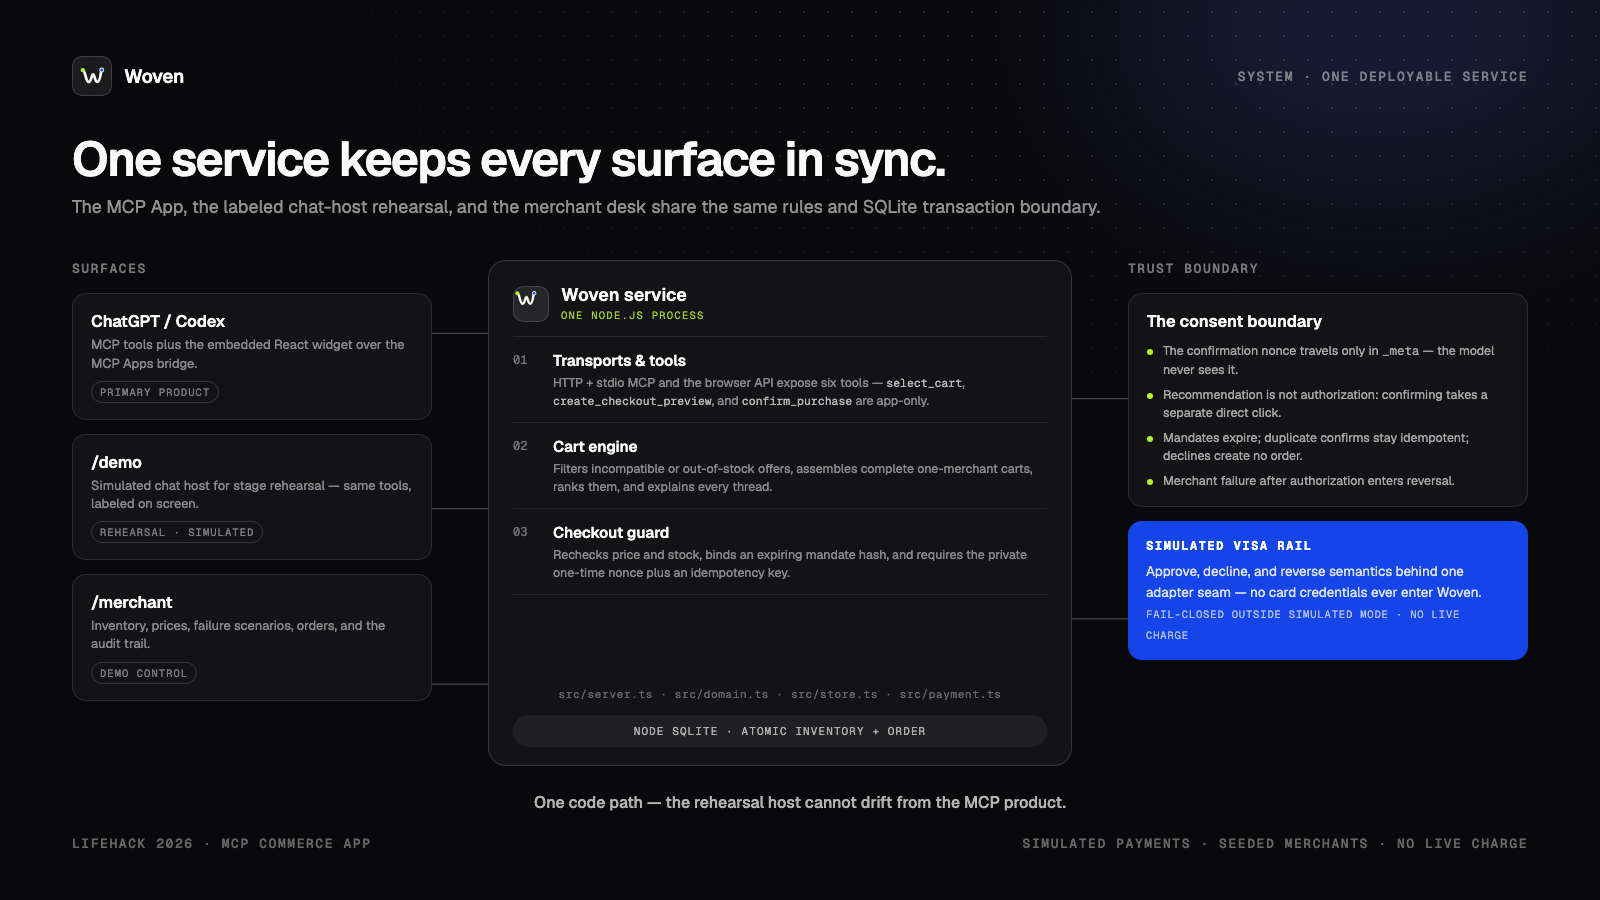
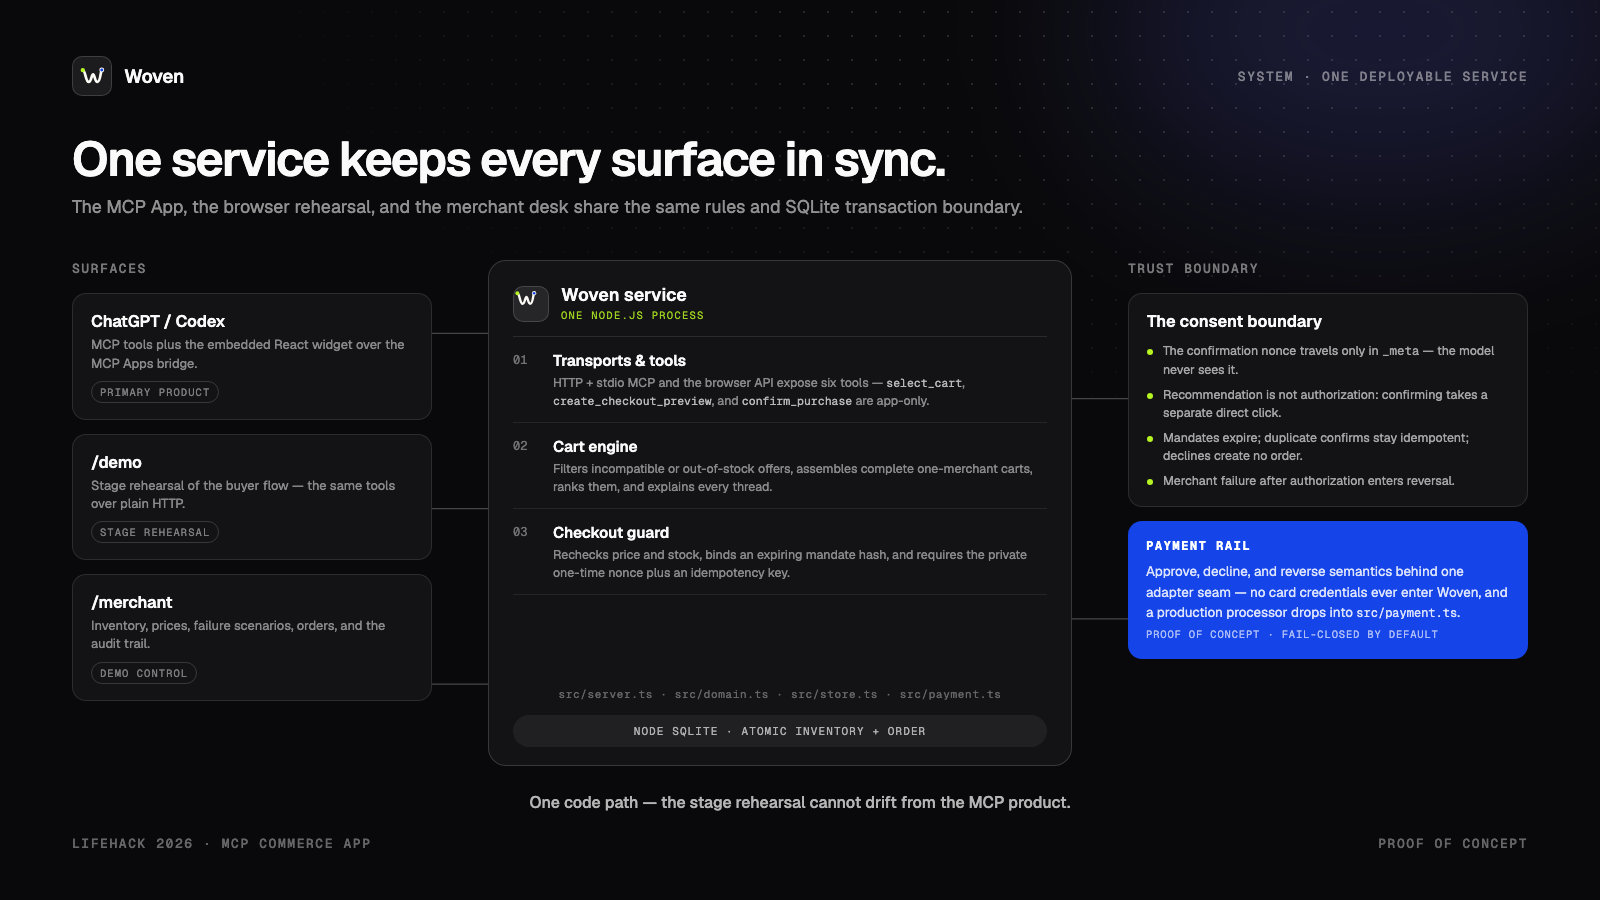
docs(style): reframe explainer assets as proof of concept
Drop the simulated/no-live-charge stamps from the two product-style
explainers per the user's direction and label both as proof of concept.
The payment-rail card stays free of live-integration claims, and the
/demo card uses transport-neutral stage-rehearsal wording.

diff --git a/docs/assets/devpost/src/woven-system-architecture.html b/docs/assets/devpost/src/woven-system-architecture.html
@@ -111,7 +111,7 @@
 
   <div class="title">
     <h1>One service keeps every surface in sync.</h1>
-    <p>The MCP App, the labeled chat-host rehearsal, and the merchant desk share the same rules and SQLite transaction boundary.</p>
+    <p>The MCP App, the browser rehearsal, and the merchant desk share the same rules and SQLite transaction boundary.</p>
   </div>
 
   <div class="diagram">
@@ -124,8 +124,8 @@
       </div>
       <div class="surface">
         <h3>/demo</h3>
-        <p>Simulated chat host for stage rehearsal — same tools, labeled on screen.</p>
-        <span class="tag">Rehearsal · simulated</span>
+        <p>Stage rehearsal of the buyer flow — the same tools over plain HTTP.</p>
+        <span class="tag">Stage rehearsal</span>
       </div>
       <div class="surface">
         <h3>/merchant</h3>
@@ -193,18 +193,18 @@
         </ul>
       </div>
       <div class="visa">
-        <h3>Simulated Visa rail</h3>
-        <p>Approve, decline, and reverse semantics behind one adapter seam — no card credentials ever enter Woven.</p>
-        <span class="fine">Fail-closed outside simulated mode · no live charge</span>
+        <h3>Payment rail</h3>
+        <p>Approve, decline, and reverse semantics behind one adapter seam — no card credentials ever enter Woven, and a production processor drops into <code style="font-family:'Geist Mono Variable',monospace;font-size:12px">src/payment.ts</code>.</p>
+        <span class="fine">Proof of concept · fail-closed by default</span>
       </div>
     </div>
   </div>
 
-  <div class="tagline">One code path — the rehearsal host cannot drift from the MCP product.</div>
+  <div class="tagline">One code path — the stage rehearsal cannot drift from the MCP product.</div>
 
   <footer>
     <span class="microlabel">LifeHack 2026 · MCP commerce app</span>
-    <span class="microlabel">Simulated payments · seeded merchants · no live charge</span>
+    <span class="microlabel">Proof of concept</span>
   </footer>
 </body>
 </html>

diff --git a/docs/assets/devpost/src/woven-how-it-works.html b/docs/assets/devpost/src/woven-how-it-works.html
@@ -168,7 +168,7 @@
         <span class="node blue">06</span>
         <div class="card">
           <h3>Collect</h3>
-          <p class="desc">Simulated Visa result and a pickup-ready receipt.</p>
+          <p class="desc">A pickup-ready receipt the moment you confirm.</p>
           <div class="frag receipt"><strong>Kit reserved. Everything aligned.</strong><span>Receipt WV-MTEN8XEM · Funan · Level 3</span></div>
         </div>
       </div>
@@ -177,13 +177,13 @@
     <div class="lane">
       <span class="microlabel ai">The AI recommends</span>
       <span class="microlabel you">Only you authorize</span>
-      <span class="microlabel sim">Simulated result</span>
+      <span class="microlabel sim">Pickup ready</span>
     </div>
   </div>
 
   <footer>
     <span class="microlabel">LifeHack 2026 · MCP commerce app</span>
-    <span class="microlabel">Simulated payments · seeded merchants · no live charge</span>
+    <span class="microlabel">Proof of concept</span>
   </footer>
 </body>
 </html>
